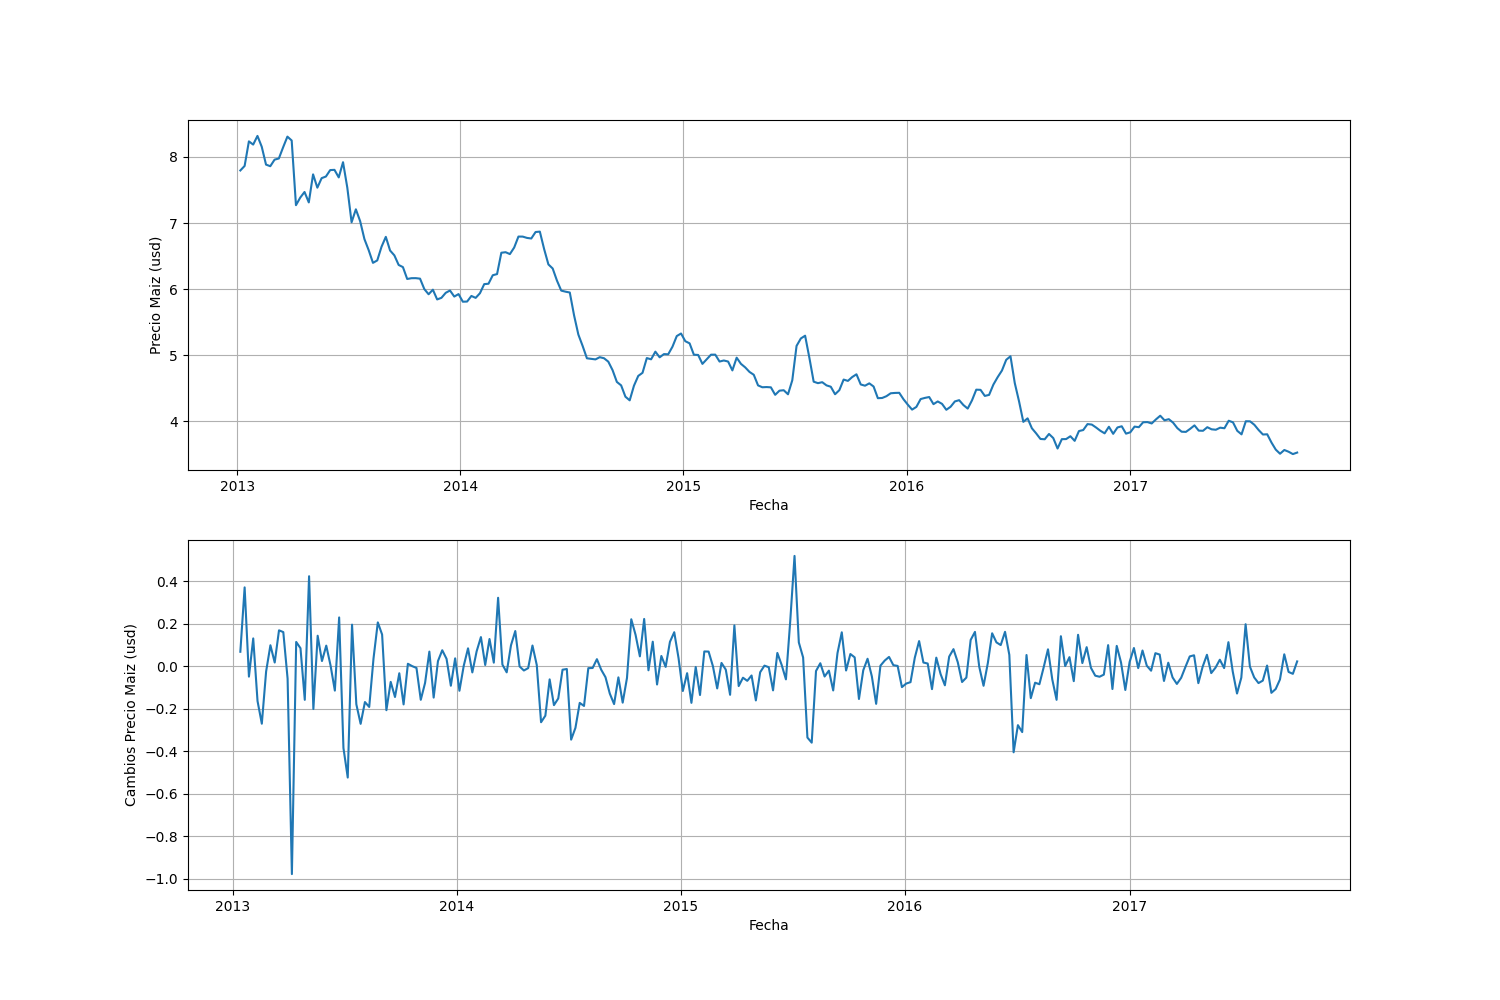
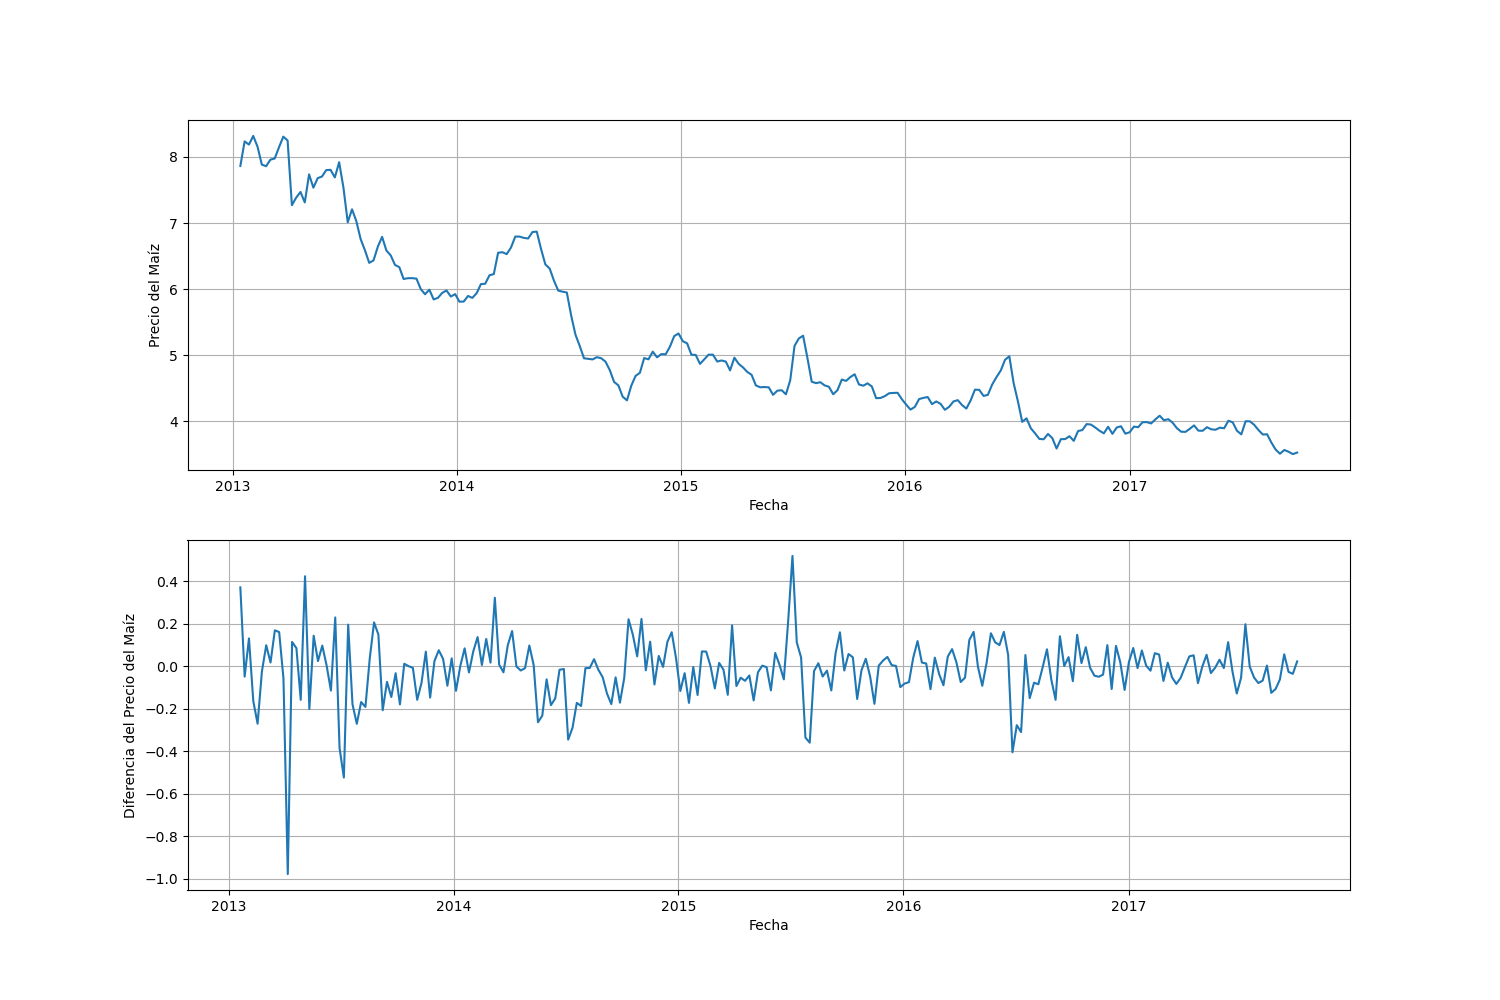
error es modelo.fit(X)

diff --git a/clases/hmm.py b/clases/hmm.py
@@ -1,68 +1,59 @@
+import numpy as np
 import pandas as pd
 import matplotlib.pyplot as plt
 from hmmlearn import hmm
 from analisis import Analisis
-import numpy as np
 
 Analisis.Transformacion()
 Analisis.Remplazar()
 Analisis.Limpiador()
 
-data = pd.read_csv("corn2.csv")
+df = pd.read_csv("corn2.csv")
 
-data[0] = pd.to_datetime(data[0])
-data[2] = data[1].diff()
-data = data[data[0] >= pd.to_datetime("2013-01-06")]
+df["0"]=pd.to_datetime(df["0"]) # Cambiamos la primera columna de string a un objeto datatime
+df["2"] = df["1"].diff() # Creamos una columna nueva con la diferencia de los precios de maíz
 
 plt.figure(figsize = (15, 10))
 plt.subplot(2,1,1)
-plt.plot(data[0], data[1])
+plt.plot(df["0"], df["1"])
 plt.xlabel("Fecha")
-plt.ylabel("Precio Maiz (usd)")
+plt.ylabel("Precio del Maíz")
 plt.grid(True)
 plt.subplot(2,1,2)
-plt.plot(data[0], data[2])
+plt.plot(df["0"], df["2"])
 plt.xlabel("Fecha")
-plt.ylabel("Cambios Precio Maiz (usd)")
+plt.ylabel("Diferencia del Precio del Maíz")
 plt.grid(True)
-plt.savefig("graficos\datos")
+plt.savefig("graficos/datos.png")
 
-X = data[[2]].values
+X = df[["2"]].values # Vamos a observar los valores de la diferencia de precios del maíz
+# Creamos un modelo HMM y metemos los datos observados
 modelo = hmm.GaussianHMM(n_components = 3, covariance_type = "diag", n_iter = 50, random_state = 42)
 modelo.fit(X)
+
+# Ahora predecimos con el siguiente código
 Z = modelo.predict(X)
 estados = pd.unique(Z)
 
-print("Estados únicos:")
-print(estados)
-print("\nComenzar probabilidades:")
-print(modelo.startprob_)
-print("\nMatriz de transición:")
-print(modelo.transmat_)
-print("\nMedias de distribución Gaussiana:")
-print(modelo.means_)
-print("\nCovarianzas de distribución Gaussiana:")
-print(modelo.covars_)
-
 plt.figure(figsize = (15, 10))
 plt.subplot(2,1,1)
 for i in estados:
     want = (Z == i)
-    x = data[0].iloc[want]
-    y = data[1].iloc[want]
+    x = df["0"].iloc[want]
+    y = df["1"].iloc[want]
     plt.plot(x, y, '.')
 plt.legend(estados, fontsize=16)
 plt.grid(True)
 plt.xlabel("Fecha", fontsize=16)
-plt.ylabel("Precio Maiz (usd)", fontsize=16)
+plt.ylabel("Precio del Maíz", fontsize=16)
 plt.subplot(2,1,2)
 for i in estados:
     want = (Z == i)
-    x = data[0].iloc[want]
-    y = data[2].iloc[want]
+    x = df["0"].iloc[want]
+    y = df["2"].iloc[want]
     plt.plot(x, y, '.')
 plt.legend(estados, fontsize=16)
 plt.grid(True)
 plt.xlabel("Fecha", fontsize=16)
-plt.ylabel("Cambio Precio Maiz (usd)", fontsize=16)
-plt.savefig("graficos\predicciones")
+plt.ylabel("Diferencia del Precio del Maíz", fontsize=16)
+plt.savefig("graficos/prediccion.png")
